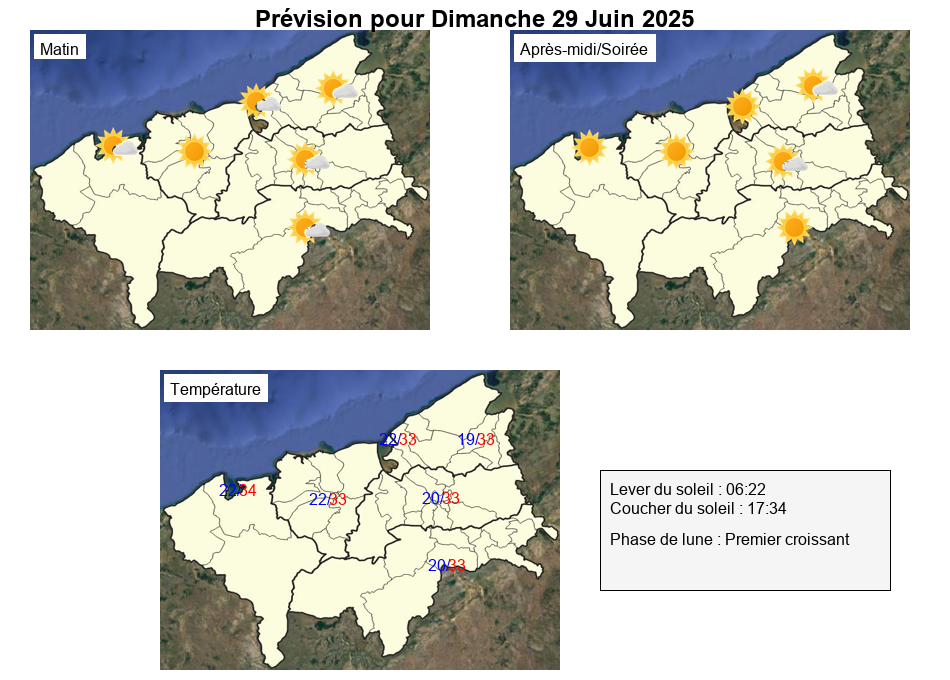
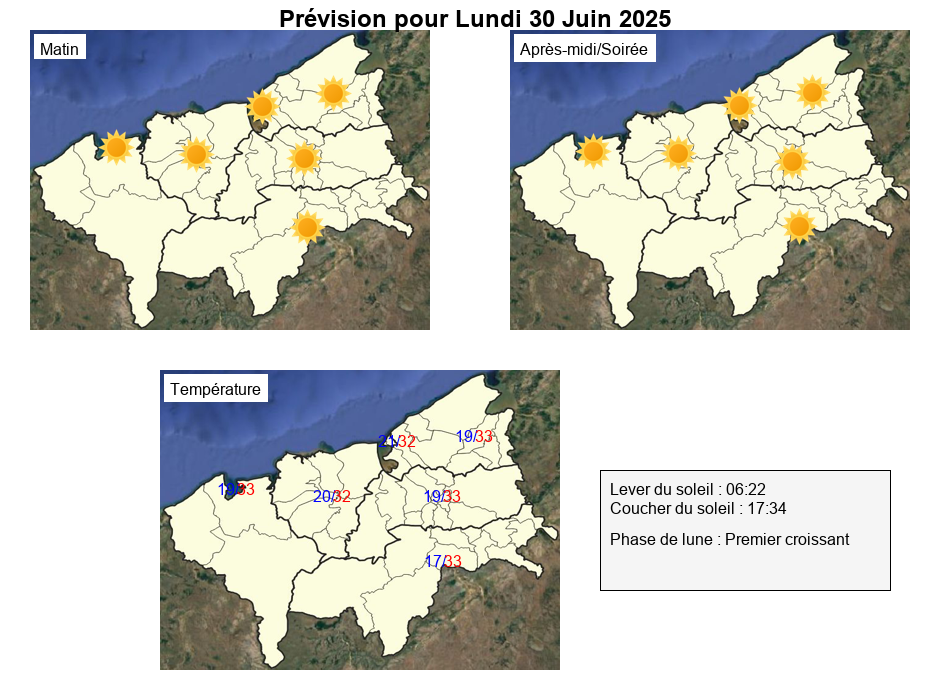
Forecast on 29/06/2025

diff --git a/script.js b/script.js
@@ -3,7 +3,7 @@ const niveauAlerte = "none";       // Options: "none", "blue", "green", "yellow"
 const typeCatastrophe = "cyclone"; // Options: "cyclone", "flood", "rainflood", "forestfire", "lightning", "flood", "stormsurge", "drivingconditions"
 
 const rawMessages = [
-    `**Prévisions journalières pour la Région BOENY, établi le 28/06/2025 à 07:00 AM**
+    `**Prévisions journalières pour la Région BOENY, établi le 29/06/2025 à 07:00 AM**
 	
 	
     ✅ **Aucune vigilance ou alerte en cours pour la Région BOENY**  
@@ -11,19 +11,19 @@ const rawMessages = [
     Restez informé en cas d’évolution de la situation.`,
 
     `**Prévisions – Jour 1 (Aujourd’hui)**  
-    Brouillard au petit-matin dans quelques endroits, Temps ensoleillé le matin, devenant nuageux l'après-midi et surtout le soir, risque de pluie fine le soir.
-    **Vents** : Vents modéré à fort de secteur ESE
-    **Températures minimales** : entre 19 et 21 °C
-    **Températures maximales** : avoisinant les 33 °C.`,
-
-    `**Prévisions – Jour 2 (Demain)**  
     Temps peu nuageux le matin, devenant ensoleillé l'après-midi et peu nuageux dans quelques endroits le soir.
     **Vents** : Vents modéré à fort du secteur SE
     **Températures minimales** : entre 20 et 22 °C
     **Températures maximales** : entre 33 et 34 °C.`,
 
-    `**Prévisions – Jour 3 (Après-demain)**  
+    `**Prévisions – Jour 2 (Demain)**  
     Temps ensoleillé toute la journée.
+    **Vents** : Vents modéré de secteur ESE
+    **Températures minimales** : entre 19 et 21 °C
+    **Températures maximales** : entre 32 et 33 °C.`
+
+    `**Prévisions – Jour 3 (Après-demain)**  
+    Temps nuageux le matin, peu nuageux l'après-midi et le soir.
     **Vents** : Vents modéré de secteur ESE
     **Températures minimales** : entre 19 et 21 °C
     **Températures maximales** : entre 32 et 33 °C.`
